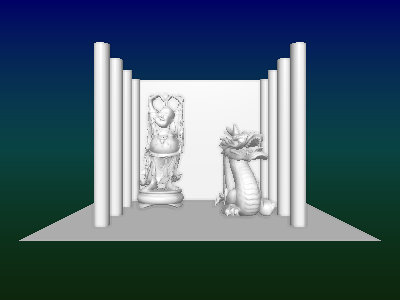
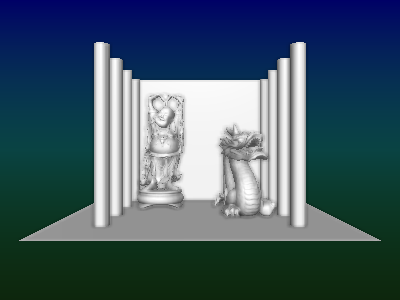
minimal example

Changed region(s): [[0.15, 0.15, 0.93, 0.81]]

diff --git a/example/python/ssao_and_hbao/ssao_kernel.py b/example/python/ssao_and_hbao/ssao_kernel.py
@@ -31,51 +31,60 @@ layout (binding = 1) uniform sampler2D u_depthSampler;
 layout (binding = 2) uniform sampler2D u_normalSampler;
 layout (binding = 3) uniform sampler2D u_ssaoKernelSampler;
 layout (binding = 4) uniform sampler2D u_ssaoNoiseSampler;
-layout (location = 1) uniform vec2 u_viewportsize; 
-layout (location = 2) uniform float u_radius = 0.01;
+layout (location = 1) uniform mat4 u_projectionMat44;
+layout (location = 2) uniform mat4 u_InverseProjectionMat44;
+layout (location = 3) uniform vec2 u_viewportsize; 
+layout (location = 4) uniform float u_radius = 0.01;
 out vec4 frag_color;
+
+vec3 DecodePosDepth(in vec2 texC, in float depth)
+{
+    vec4 viewPos = u_InverseProjectionMat44 * vec4(vec3(texC.st, depth) * 2.0 - 1.0, 1.0);
+    viewPos.xyz /= viewPos.w;
+    return vec3(viewPos.xyz);
+}
+
+vec4 SSAO(in vec2 texC)
+{
+    float occlusion       = 1.0;
+    float fragDepth       = texture(u_depthSampler, texC).x;
+    float alpha           = 0.0;
+    if (fragDepth < 1.0)
+    {
+        vec3  fragPos         = DecodePosDepth(texC, fragDepth); 
+        float radius          = u_radius;
+        vec3  fragNV          = texture(u_normalSampler, texC).xyz;
+        vec2  noiseScale      = u_viewportsize / float(4.0);
+        vec3  randomVec       = texture2D(u_ssaoNoiseSampler, texC.st * noiseScale).xyz;
+        vec3  tangent         = normalize(randomVec - fragNV * dot(randomVec, fragNV));
+        mat3  TBN             = mat3(tangent, cross(fragNV, tangent), fragNV);
+        float kernelPtCount   = 0.0;
+        int   kernelSize      = textureSize(u_ssaoKernelSampler, 0).x;
+        for( int inx = 0; inx < kernelSize; ++ inx )
+        {
+            vec4  kernelVec       = texelFetch(u_ssaoKernelSampler, ivec2(inx, 0), 0);
+            vec3  sampleRel       = TBN * kernelVec.xyz * kernelVec.w;
+            sampleRel             = fragPos.xyz + sampleRel * radius;
+            vec4  sampleTexC      = u_projectionMat44 * vec4(sampleRel, 1.0);             // view to clip space
+            sampleTexC.xyz        = 0.5 + 0.5 * sampleTexC.xyz / sampleTexC.w; // clip space -> NDC [-1.0, 1.0] -> [0.0, 1.0]
+            float sampleDepth     = sampleTexC.z;
+            vec2  rangeTest       = step(vec2(0.0, 0.0), sampleTexC.xy) * step(sampleTexC.xy, vec2(1.0, 1.0));
+            float w               = rangeTest.x * rangeTest.y;
+            kernelPtCount        += w;
+            float testDepth       = texture(u_depthSampler, sampleTexC.xy).x;
+            float sampleDelta     = testDepth - sampleDepth;
+            occlusion            += w * step(-0.00005, sampleDelta);
+        }
+        occlusion = occlusion / kernelPtCount;
+        alpha     = 1.0;
+    }
+    return vec4(vec3(occlusion), alpha);
+}
 
 void main() 
 {
-    float ssaoRadius = u_radius;
-    float ssaoFalloff = 0.0001;
-    float ssaoArea = 1.0;
-    float ssaoBase = 0.0;
-    float ssaoStrength = 1.0;
-    vec2  uvVarying = gl_FragCoord.xy / u_viewportsize;
-    float depth = texture(u_depthSampler, uvVarying).x;
-    float ambientOcclusion = 1.0;
-    float alpha = 0.0;
-    if (depth > 0.0)
-    {
-        vec3 random = texture(u_ssaoNoiseSampler, uvVarying.st * u_viewportsize.xy / 4.0).xyz;
-        vec3 position = vec3(uvVarying, depth);
-        vec3 normal = texture(u_normalSampler, uvVarying).xyz;
-        float radiusDepth = ssaoRadius/depth;
-        float occlusion = 0.0;
-        int kernelSize = textureSize(u_ssaoKernelSampler, 0).x;
-        for(int i=0; i < kernelSize; i++)
-        {
-            vec3 sample_vec = texelFetch(u_ssaoKernelSampler, ivec2(i, 0), 0).xyz;
-            vec3 ray = radiusDepth * reflect(sample_vec, random);
-            vec3 hemiRay = position + sign(dot(ray, normal)) * ray;
-    
-            float occDepth = texture(u_depthSampler, clamp(hemiRay.xy, 0.0, 1.0)).x;
-            float difference = depth - occDepth;
-    
-            occlusion += step(ssaoFalloff, difference) * (1.0 - smoothstep(ssaoFalloff, ssaoArea, difference));
-    
-            // float rangeCheck = abs(difference) < radiusDepth ? 1.0 : 0.0;
-            // occlusion += (occDepth <= position.z ? 1.0 : 0.0) * rangeCheck;
-        }
-    
-        float ao = 1.0 - ssaoStrength * occlusion * (1.0 / float(kernelSize));
-
-        ambientOcclusion = clamp(ao + ssaoBase, 0.0, 1.0);
-        alpha = 1.0;
-
-    }
-    frag_color = vec4(vec3(ambientOcclusion), alpha);
+    vec2 uvVarying = gl_FragCoord.xy / u_viewportsize;
+    frag_color = SSAO(uvVarying.st);
 }
 """
 
@@ -144,15 +153,15 @@ def create_noise(noise_size):
     return noise_texture
 
 def create_kernel(kernel_size):
-    kernel = numpy.empty((kernel_size * 3), dtype = numpy.float32)
+    kernel = numpy.empty((kernel_size * 4), dtype = numpy.float32)
     for i in range(kernel_size):
         v = glm.normalize(glm.vec3(random.uniform(-1, 1), random.uniform(-1, 1), random.uniform(-1, 1)))
         len_xy = glm.length(glm.vec2(v))
         v.z = v.z * (1 + len_xy) - len_xy
-        kernel[i,:] = [*v]
+        kernel[i,:] = [*v, 1]
     kernel_texture = glGenTextures(1)
     glBindTexture(GL_TEXTURE_2D, kernel_texture)
-    glTexImage2D(GL_TEXTURE_2D, 0, GL_RGB16_SNORM, kernel_size, 0, 0, GL_RGB, GL_FLOAT, kernel)          
+    glTexImage2D(GL_TEXTURE_2D, 0, GL_RGBA16_SNORM, kernel_size, 0, 0, GL_RGBA, GL_FLOAT, kernel)          
     glTexParameteri(GL_TEXTURE_2D, GL_TEXTURE_MIN_FILTER, GL_NEAREST)
     glTexParameteri(GL_TEXTURE_2D, GL_TEXTURE_MAG_FILTER, GL_NEAREST)
     return kernel_texture
@@ -176,7 +185,7 @@ blend_program = OpenGL.GL.shaders.compileProgram(
 
 scene = TestScene('./model/wavefront', True)
 scene.create()
-navigate = Navigation(window, glm.vec3(0, -0.5, -3.0), "ssao_fixed")
+navigate = Navigation(window, glm.vec3(0, -0.5, -3.0), "ssao_kernel")
 navigate.change_vp_size_callback = create_frambuffers
 
 screensapce_vao = create_screenspace_vao()
@@ -206,7 +215,10 @@ while not glfwWindowShouldClose(window):
     glBindTexture(GL_TEXTURE_2D, kernel_texture)
     glActiveTexture(GL_TEXTURE4)
     glBindTexture(GL_TEXTURE_2D, noise_texture)
-    glUniform2fv(1, 1, navigate.viewport_size)
+    glUniformMatrix4fv(1, 1, GL_FALSE, glm.value_ptr(navigate.projection_matrix))
+    glUniformMatrix4fv(2, 1, GL_FALSE, glm.value_ptr(glm.inverse(navigate.projection_matrix)))
+    glUniform2fv(3, 1, navigate.viewport_size)
+    glUniform1f(4, 0.02)
     glBindVertexArray(screensapce_vao)
     glDrawArrays(GL_TRIANGLE_STRIP, 0, 4)
 

diff --git a/example/python/ssao_and_hbao/ssao_fixed.py b/example/python/ssao_and_hbao/ssao_fixed.py
@@ -182,7 +182,7 @@ if glfwInit() == GLFW_FALSE:
     exit()
 
 glfwWindowHint(GLFW_SAMPLES, 8)
-window = glfwCreateWindow(800, 600, "OpenGL Window", None, None)
+window = glfwCreateWindow(400, 300, "OpenGL Window", None, None)
 glfwMakeContextCurrent(window)
 
 ssao_program = OpenGL.GL.shaders.compileProgram(
@@ -223,6 +223,7 @@ while not glfwWindowShouldClose(window):
     glActiveTexture(GL_TEXTURE2)
     glBindTexture(GL_TEXTURE_2D, noise_texture)
     glUniform2fv(1, 1, navigate.viewport_size)
+    glUniform1f(2, 0.01)
     glBindVertexArray(screensapce_vao)
     glDrawArrays(GL_TRIANGLE_STRIP, 0, 4)
 

diff --git a/example/python/ssao_and_hbao/test_scene.py b/example/python/ssao_and_hbao/test_scene.py
@@ -133,7 +133,7 @@ void main()
     vec3  N = normalize(v_nv) * face;
     vec3 color = u_k_ads.x < 0.0 ? HSLtoRGB(v_uvw.zxy) : light_model(v_uvw.z, V, N);
     frag_color = vec4(color.rgb, 1.0);
-    normal_vector = N;
+    normal_vector = inverse(transpose(mat3(u_view))) * N;
 }
 """
 

diff --git a/readme/content_python.md b/readme/content_python.md
@@ -57,8 +57,10 @@ Robert C. Martin, Clean Architecture
 
 [no SSAO, diffuse light](../example/python\/ssao_and_hbao/no_ssao_diffuse_light.py)  
 [fixed SSAO](../example/python/ssao_and_hbao/ssao_fixed.py)  
+[kernel SSAO](../example/python/ssao_and_hbao/ssao_kernel.py)  
 ![No SSAO, diffuse light](../screenshot/example/python/ssao_and_hbao/no_ssao_diffuse_light.png)
 ![fixed SSAO](../screenshot/example/python/ssao_and_hbao/ssao_fixed.png)
+![kernel SSAO](../screenshot/example/python/ssao_and_hbao/ssao_kernel.png)
 
 ### 2D shader
 
